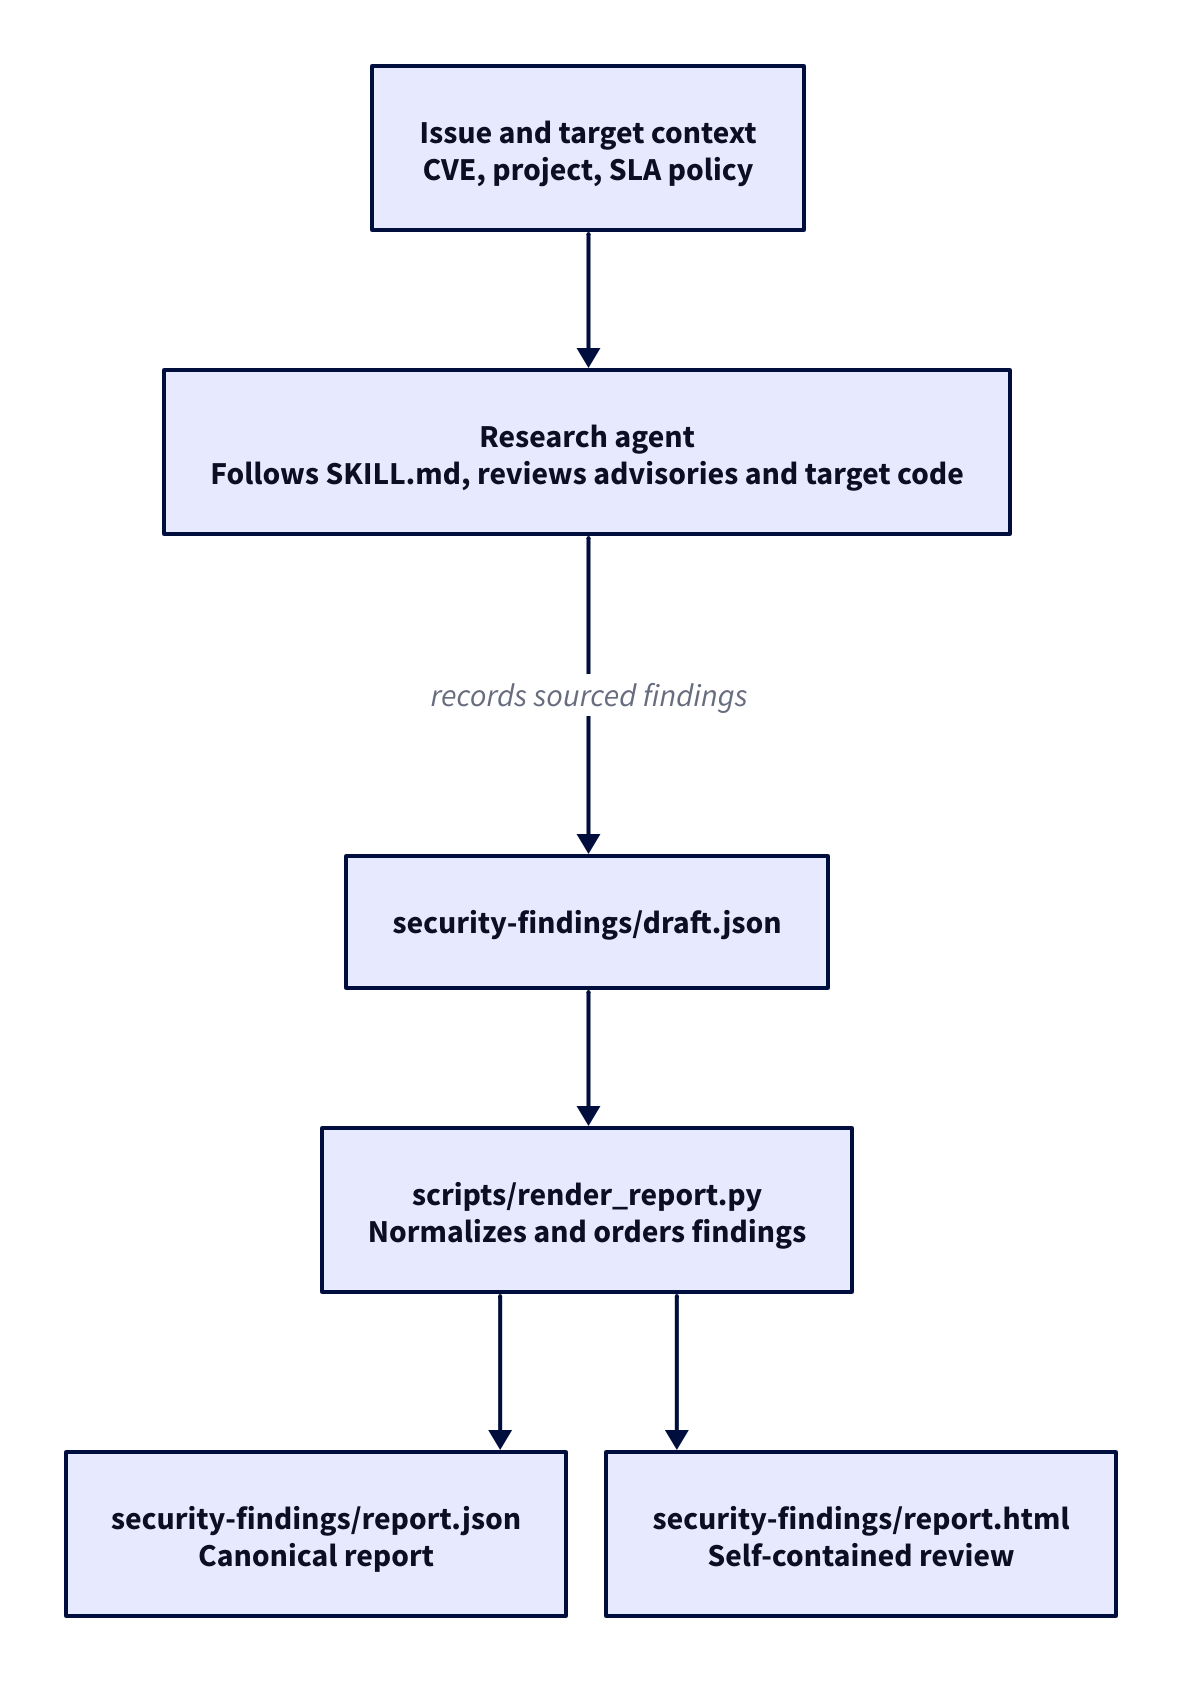
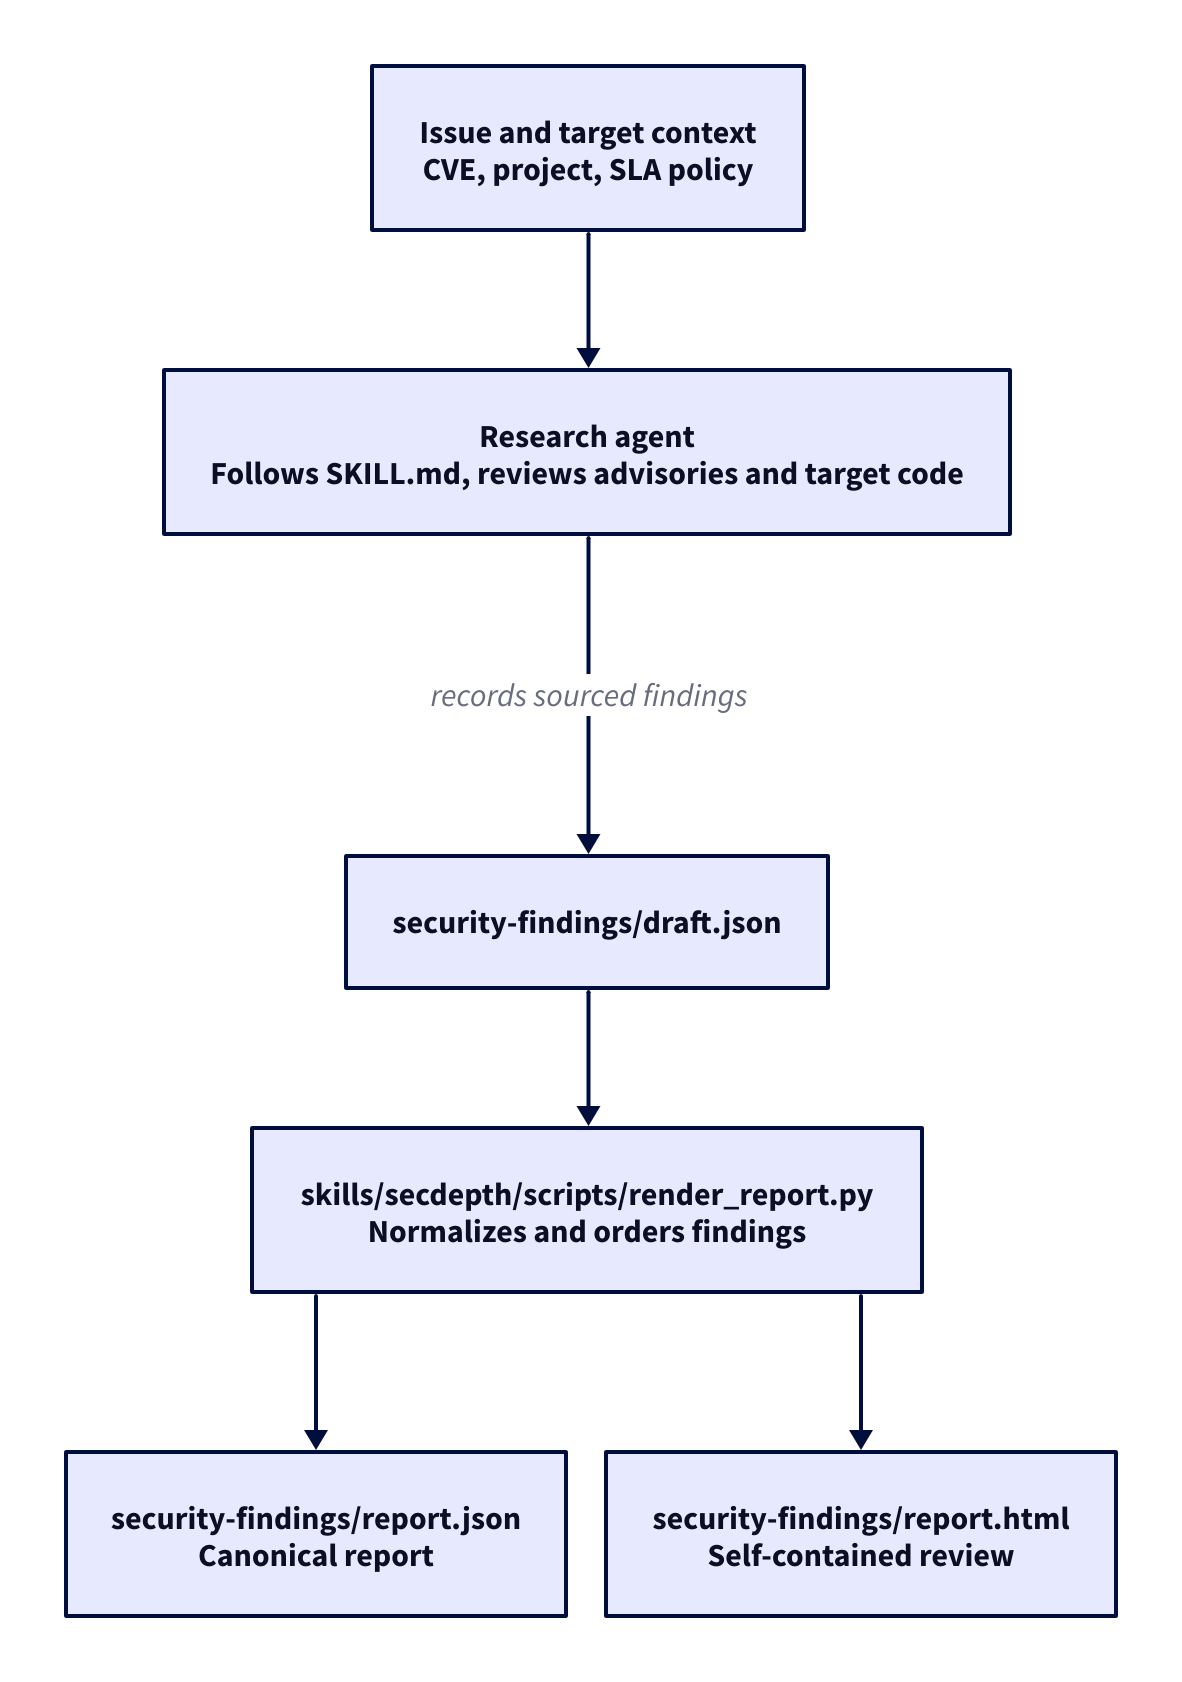
feat: package secdepth for user installation

diff --git a/docs/use-secdepth.md b/docs/use-secdepth.md
@@ -15,10 +15,10 @@ Use this procedure to investigate a code security issue in a project and review 
 3. Render `security-findings/draft.json` with the skill's renderer:
 
    ```sh
-   python3 /path/to/secdepth/scripts/render_report.py security-findings/draft.json
+   python3 skills/secdepth/scripts/render_report.py security-findings/draft.json
    ```
 
-   Replace `/path/to/secdepth` with the installed skill path. For a different report folder, pass `--output-dir` with that folder so the outputs stay beside the draft.
+   From an installed skill, use its `scripts/render_report.py` path instead. For a different report folder, pass `--output-dir` with that folder so the outputs stay beside the draft.
 4. Review the authoritative `report.json` and the searchable `report.html`. The HTML shows affected findings without a deployable fix first, affected findings with a feasible released fix next, and findings with no confirmed local exposure or incomplete assessment last.
 
 ## Verify
@@ -27,8 +27,8 @@ Confirm that the renderer produced `report.json` and `report.html` in the reques
 
 ## Related
 
-- [Skill workflow](../SKILL.md)
-- [Report schema](../references/report-schema.json)
-- [Research and evidence guidance](../references/research-guidance.md)
+- [Skill workflow](../skills/secdepth/SKILL.md)
+- [Report schema](../skills/secdepth/references/report-schema.json)
+- [Research and evidence guidance](../skills/secdepth/references/research-guidance.md)
 - [Report output reference](report-output.md)
 - [Project README](../README.md)

diff --git a/README.md b/README.md
@@ -7,3 +7,17 @@ Secdepth guides an agent through advisory review and target-code analysis, then 
 *The agent records sourced findings in a draft; the renderer creates the canonical JSON report and a self-contained HTML review.*
 
 [Diagram source](docs/diagrams/secdepth-flow.d2) · [PNG preview](docs/diagrams/secdepth-flow.png)
+
+## Install
+
+In Codex, invoke `$skill-installer` with repository `kobaltoxid/secdepth` and skill path `skills/secdepth`. The repository is private, so installation requires GitHub access.
+
+To install from a local clone for Codex and Claude Code:
+
+```sh
+mkdir -p ~/.local/share
+gh repo clone kobaltoxid/secdepth ~/.local/share/secdepth
+~/.local/share/secdepth/scripts/install-user.sh
+```
+
+Pass `codex` or `claude` to install for only one agent. Start a new agent session after installation. See the [use guide](docs/use-secdepth.md) and [report output reference](docs/report-output.md).

diff --git a/docs/report-output.md b/docs/report-output.md
@@ -28,5 +28,5 @@ When reviewing the HTML, open a finding to inspect its applicability, affected c
 ## Related
 
 - [Use the Secdepth skill](use-secdepth.md)
-- [Report schema](../references/report-schema.json)
-- [Research and evidence guidance](../references/research-guidance.md)
+- [Report schema](../skills/secdepth/references/report-schema.json)
+- [Research and evidence guidance](../skills/secdepth/references/research-guidance.md)
